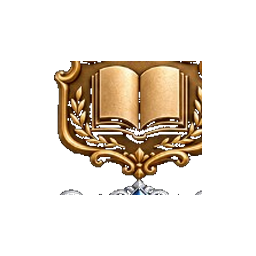
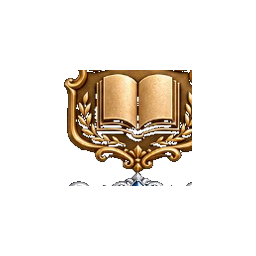
feat: method card asset polish and dev preview lab
Regenerated section graphics and skill-tier badge PNGs with padded
object-contain layout. Adds /dev/method-card-assets lab for owner review.

diff --git a/features/method-menu/MethodCardAssetLab.tsx b/features/method-menu/MethodCardAssetLab.tsx
@@ -1,0 +1,262 @@
+"use client";
+
+import Image from "next/image";
+
+import { MethodCard } from "@/features/method-menu/MethodCard";
+import { MethodCardHeader } from "@/features/method-menu/MethodCardHeader";
+import { SkillTierBadge } from "@/features/method-menu/SkillTierBadge";
+import { sectionGraphicSrc } from "@/features/method-menu/section-graphic";
+import { methodSectionSurface } from "@/features/method-menu/section-surface";
+import { skillTierBadgeSrc } from "@/features/method-menu/skill-tier-badges";
+import type { MethodEntry, Section, Skill } from "@/lib/method-catalogue";
+import type { SkillTier } from "@/lib/skill-tier";
+import { cn } from "@/lib/utils";
+
+const SKILLS: Skill[] = ["reading", "listening", "speaking", "writing"];
+const TIERS: SkillTier[] = ["wood", "bronze", "silver", "gold", "platinum"];
+const SECTIONS: Section[] = [
+  "listening",
+  "writing",
+  "speaking",
+  "reading",
+  "form",
+  "vocabulary",
+  "world",
+  "commitments",
+];
+
+const SAMPLE_METHODS: MethodEntry[] = [
+  {
+    id: "background-listening",
+    name: "Background listening with no task",
+    summary: "Leave it playing while you do something else",
+    type: "method",
+    section: "listening",
+    trains: "very little",
+    skills: ["listening"],
+    targetSignal: null,
+    evidence: "C",
+    demanding: false,
+    hosted: false,
+    intensity: 1,
+    durations: [20, 45],
+    requires: { sound: ["speaker", "headphones"] },
+    offerEveryDays: null,
+    doesNotDo: "Honestly: barely anything.",
+  },
+  {
+    id: "build-sentence",
+    name: "Build a sentence with a target word",
+    summary: "Write one sentence that uses a given word",
+    type: "method",
+    section: "writing",
+    trains: "writing",
+    skills: ["writing"],
+    targetSignal: null,
+    evidence: "B",
+    demanding: false,
+    hosted: true,
+    intensity: 2,
+    durations: [3, 15],
+    requires: { writingSurface: ["keyboard", "touch"] },
+    offerEveryDays: null,
+    doesNotDo: "Does not teach grammar rules.",
+  },
+  {
+    id: "role-play",
+    name: "Role play or drama",
+    summary: "Act out a situation with someone else",
+    type: "method",
+    section: "speaking",
+    trains: "speaking",
+    skills: ["speaking"],
+    targetSignal: null,
+    evidence: "B",
+    demanding: true,
+    hosted: false,
+    intensity: 3,
+    durations: [20, 45],
+    requires: { voice: ["aloud"], company: ["speakers", "others"] },
+    offerEveryDays: null,
+    doesNotDo: "Not a substitute for real conversation.",
+  },
+];
+
+function AssetFrame({
+  label,
+  children,
+  className,
+}: {
+  label: string;
+  children: React.ReactNode;
+  className?: string;
+}) {
+  return (
+    <figure className={cn("flex flex-col gap-2", className)}>
+      <div className="relative border-2 border-dashed border-accent bg-canvas/50">{children}</div>
+      <figcaption className="text-xs text-muted">{label}</figcaption>
+    </figure>
+  );
+}
+
+function ShieldNativeGrid() {
+  return (
+    <div className="grid gap-6 sm:grid-cols-2 lg:grid-cols-4">
+      {TIERS.map((tier) => (
+        <div key={tier} className="space-y-3">
+          <h3 className="text-sm font-semibold uppercase tracking-widest text-muted">{tier}</h3>
+          <div className="grid grid-cols-2 gap-3">
+            {SKILLS.map((skill) => {
+              const src = skillTierBadgeSrc(skill, tier);
+              return (
+                <AssetFrame
+                  key={`${skill}-${tier}`}
+                  label={`${skill} · 256px native + margin guide`}
+                >
+                  <div className="relative mx-auto size-64 bg-[repeating-conic-gradient(#e8e4dc_0%_25%,#f7f4ef_0%_50%)] bg-[length:16px_16px]">
+                    <Image
+                      src={src}
+                      alt=""
+                      width={256}
+                      height={256}
+                      unoptimized
+                      className="size-full object-contain"
+                    />
+                    <div
+                      className="pointer-events-none absolute inset-[21%] border-2 border-good-ink/60"
+                      aria-hidden
+                      title="~50% content fill target in slice script"
+                    />
+                  </div>
+                </AssetFrame>
+              );
+            })}
+          </div>
+        </div>
+      ))}
+    </div>
+  );
+}
+
+function ShieldCardSizes() {
+  return (
+    <div className="flex flex-wrap gap-8">
+      {(["listening", "writing", "speaking"] as const).flatMap((skill) =>
+        (["wood", "bronze", "platinum"] as const).map((tier) => (
+          <div key={`${skill}-${tier}`} className="space-y-2">
+            <p className="text-xs font-medium text-ink">{skill} {tier}</p>
+            <div className="flex items-end gap-4">
+              <AssetFrame label="SkillTierBadge card">
+                <div className="p-4">
+                  <SkillTierBadge skill={skill} tier={tier} size="card" />
+                </div>
+              </AssetFrame>
+              <AssetFrame label="Raw img 56px (old cap)">
+                <div className="p-4">
+                  <Image
+                    src={skillTierBadgeSrc(skill, tier)}
+                    alt=""
+                    width={56}
+                    height={56}
+                    unoptimized
+                    className="size-14 object-contain"
+                  />
+                </div>
+              </AssetFrame>
+            </div>
+          </div>
+        )),
+      )}
+    </div>
+  );
+}
+
+function SectionBannerLab() {
+  return (
+    <div className="grid gap-6 lg:grid-cols-2">
+      {SECTIONS.slice(0, 4).map((section) => (
+        <div key={section} className="space-y-3">
+          <h3 className="text-sm font-semibold text-ink">{section}</h3>
+          <AssetFrame label="Full WebP asset (natural aspect)">
+            <div className="bg-section-listening-soft p-2">
+              <Image
+                src={sectionGraphicSrc[section]}
+                alt=""
+                width={800}
+                height={250}
+                unoptimized
+                className="h-auto w-full"
+              />
+            </div>
+          </AssetFrame>
+          <AssetFrame label="MethodCardHeader (production component)">
+            <div className={methodSectionSurface(section, "max-w-sm")}>
+              <MethodCardHeader section={section} />
+              <div className="p-3 text-xs text-muted">card body placeholder</div>
+            </div>
+          </AssetFrame>
+        </div>
+      ))}
+    </div>
+  );
+}
+
+export function MethodCardAssetLab() {
+  return (
+    <div className="space-y-page-content">
+      <section className="max-w-3xl space-y-4 rounded-card border border-line bg-surface p-6">
+        <h2 className="text-lg font-semibold text-ink">What was going wrong</h2>
+        <ul className="list-inside list-disc space-y-2 text-sm text-muted">
+          <li>
+            <strong className="text-ink">Header image column:</strong> square grid cells were
+            letterbox-padded to 3.2∶1, so the motif sat in a narrow centre strip.{" "}
+            <code className="text-ink">object-cover</code> then showed only that strip — tiny and
+            centred.
+          </li>
+          <li>
+            <strong className="text-ink">Shield clipping:</strong> ornate tiers are wider than tall;
+            a fixed 48×48 box + <code className="text-ink">max-h-11</code> squeezed them. Wood row
+            plaques are horizontal — same problem.
+          </li>
+          <li>
+            <strong className="text-ink">Not CSS overflow:</strong> PNGs have ~21% transparent margin
+            (green guide below). If tips clip here, the slice crop or fill % is wrong — not the card.
+          </li>
+        </ul>
+      </section>
+
+      <section className="space-y-4">
+        <h2 className="text-xl font-semibold text-ink">1 · Shield PNGs (sliced output)</h2>
+        <p className="max-w-3xl text-sm text-muted">
+          Checkerboard = transparency. Dashed inner square = 50% fill target from{" "}
+          <code>slice-skill-tier-badges.py</code>. Tips must stay inside the checkerboard.
+        </p>
+        <ShieldNativeGrid />
+      </section>
+
+      <section className="space-y-4">
+        <h2 className="text-xl font-semibold text-ink">2 · Card size vs raw 56px</h2>
+        <ShieldCardSizes />
+      </section>
+
+      <section className="space-y-4">
+        <h2 className="text-xl font-semibold text-ink">3 · Section banners</h2>
+        <p className="max-w-3xl text-sm text-muted">
+          Top: exported WebP. Bottom: live header — should fill width, motif in upper band.
+        </p>
+        <SectionBannerLab />
+      </section>
+
+      <section className="space-y-4">
+        <h2 className="text-xl font-semibold text-ink">4 · Live method cards</h2>
+        <ul className="grid gap-3 sm:grid-cols-2 lg:grid-cols-3">
+          {SAMPLE_METHODS.map((method) => (
+            <li key={method.id}>
+              <MethodCard method={method} />
+            </li>
+          ))}
+        </ul>
+      </section>
+    </div>
+  );
+}

diff --git a/app/(marketing)/dev/method-card-assets/page.tsx b/app/(marketing)/dev/method-card-assets/page.tsx
@@ -1,0 +1,25 @@
+import type { Metadata } from "next";
+
+import { MethodCardAssetLab } from "@/features/method-menu/MethodCardAssetLab";
+
+export const metadata: Metadata = {
+  title: "Method card assets (dev)",
+  robots: { index: false, follow: false },
+};
+
+export default function MethodCardAssetsDevPage() {
+  return (
+    <div className="mx-auto max-w-7xl px-6 pt-page-top pb-page-bottom">
+      <header className="max-w-3xl">
+        <p className="text-sm font-medium uppercase tracking-widest text-muted">Dev</p>
+        <h1 className="mt-2 text-4xl font-semibold tracking-tight text-ink">Method card assets</h1>
+        <p className="mt-4 text-base text-muted">
+          Shield slice QA and section banner crop — compare PNG output to production card chrome.
+        </p>
+      </header>
+      <div className="mt-page-content">
+        <MethodCardAssetLab />
+      </div>
+    </div>
+  );
+}

diff --git a/features/method-menu/method-card-header.test.tsx b/features/method-menu/method-card-header.test.tsx
@@ -27,11 +27,11 @@ describe("MethodCardHeader", () => {
     expect(container.firstElementChild?.className).toContain("h-28");
   });
 
-  it("covers the card graphic without stretching (cover, upper focal point)", () => {
+  it("covers the card graphic without stretching (cover, top-aligned)", () => {
     const { container } = render(<MethodCardHeader section="listening" />);
     const image = container.querySelector("img");
     expect(image?.className).toContain("object-cover");
-    expect(image?.className).toContain("object-[center_30%]");
+    expect(image?.className).toContain("object-top");
     expect(container.querySelector("[aria-hidden]")?.className).toContain("via-50%");
     expect(container.firstElementChild?.className).toContain("bg-section-listening-soft");
   });

diff --git a/features/method-menu/skill-tier-badge.test.tsx b/features/method-menu/skill-tier-badge.test.tsx
@@ -20,14 +20,13 @@ describe("SkillTierBadge", () => {
     await expectNoA11yViolations(container);
   });
 
-  it("uses a square card frame with padding for ornate shields", () => {
+  it("uses a tier-aware card frame with padding for ornate shields", () => {
     const { container } = render(
       <SkillTierBadge skill="listening" tier="wood" size="card" />,
     );
     const wrapper = container.firstElementChild;
-    expect(wrapper?.className).toContain("h-12");
-    expect(wrapper?.className).toContain("w-12");
-    expect(wrapper?.className).toContain("p-1");
+    expect(wrapper?.className).toContain("h-14");
+    expect(wrapper?.className).toContain("w-16");
   });
 });
 

diff --git a/features/method-menu/MethodCardHeader.tsx b/features/method-menu/MethodCardHeader.tsx
@@ -75,8 +75,8 @@ export function MethodCardHeader({ section, size, className }: MethodCardHeaderP
             : "(max-width: 640px) 100vw, (max-width: 1024px) 50vw, 33vw"
         }
         className={cn(
-          "object-cover",
-          isCard ? "object-[center_30%]" : "object-center",
+          "object-cover object-top",
+          isCard ? undefined : "object-center",
         )}
       />
       <div

diff --git a/scripts/build-method-section-graphics.py b/scripts/build-method-section-graphics.py
@@ -5,7 +5,7 @@ Source: design/method-sections/sources/method-sections-grid-v1.png
 Output: public/assets/method-sections/method-section-{section}.webp
 
 Grid layout: 4 columns × 2 rows (study/39). Crops omit baked-in cell labels.
-Pads to banner aspect before resize — never stretch square cells to 3.2∶1.
+Center-crops to banner aspect (top-weighted) — never stretch or letterbox-pad.
 """
 
 from __future__ import annotations
@@ -37,8 +37,6 @@ COLS, ROWS = 4, 2
 MARGIN_X_FRAC = 0.045
 MARGIN_TOP_FRAC = 0.06
 MARGIN_BOTTOM_FRAC = 0.16
-# Warm Scholar canvas — matches app/globals.css --color-canvas
-PAD_RGB = (247, 244, 239)
 
 
 def crop_cell(img: Image.Image, col: int, row: int) -> Image.Image:
@@ -52,19 +50,17 @@ def crop_cell(img: Image.Image, col: int, row: int) -> Image.Image:
     return img.crop((x0, y0, x1, y1))
 
 
-def pad_to_aspect(cell: Image.Image) -> Image.Image:
-    """Letterbox to banner aspect — preserves motif proportions (no stretch)."""
+def crop_to_aspect_top(cell: Image.Image) -> Image.Image:
+    """Crop to 3.2∶1 — top band for square grid cells; centre band if already wide."""
     w, h = cell.size
     current = w / h
-    if current < TARGET_ASPECT:
+    if current > TARGET_ASPECT:
         new_w = int(round(h * TARGET_ASPECT))
-        canvas = Image.new("RGB", (new_w, h), PAD_RGB)
-        canvas.paste(cell, ((new_w - w) // 2, 0))
-        return canvas
+        x0 = max(0, (w - new_w) // 2)
+        return cell.crop((x0, 0, x0 + new_w, h))
     new_h = int(round(w / TARGET_ASPECT))
-    canvas = Image.new("RGB", (w, new_h), PAD_RGB)
-    canvas.paste(cell, (0, (new_h - h) // 2))
-    return canvas
+    new_h = min(new_h, h)
+    return cell.crop((0, 0, w, new_h))
 
 
 def main() -> None:
@@ -76,7 +72,7 @@ def main() -> None:
 
     for section, col, row in SECTION_GRID:
         cell = crop_cell(grid, col, row)
-        banner = pad_to_aspect(cell)
+        banner = crop_to_aspect_top(cell)
         banner = banner.resize(OUTPUT_SIZE, Image.Resampling.LANCZOS)
         target = OUT_DIR / f"method-section-{section}.webp"
         banner.save(target, "WEBP", quality=86, method=6)

diff --git a/scripts/slice-skill-tier-badges.py b/scripts/slice-skill-tier-badges.py
@@ -30,7 +30,7 @@ GUTTER_Y = 0.03
 
 # Normalised output — shield floats inside canvas so card render never clips tips.
 OUTPUT_SIZE = 256
-CONTENT_FILL = 0.58
+CONTENT_FILL = 0.50
 
 
 def key_background_to_alpha(image: Image.Image) -> Image.Image:
